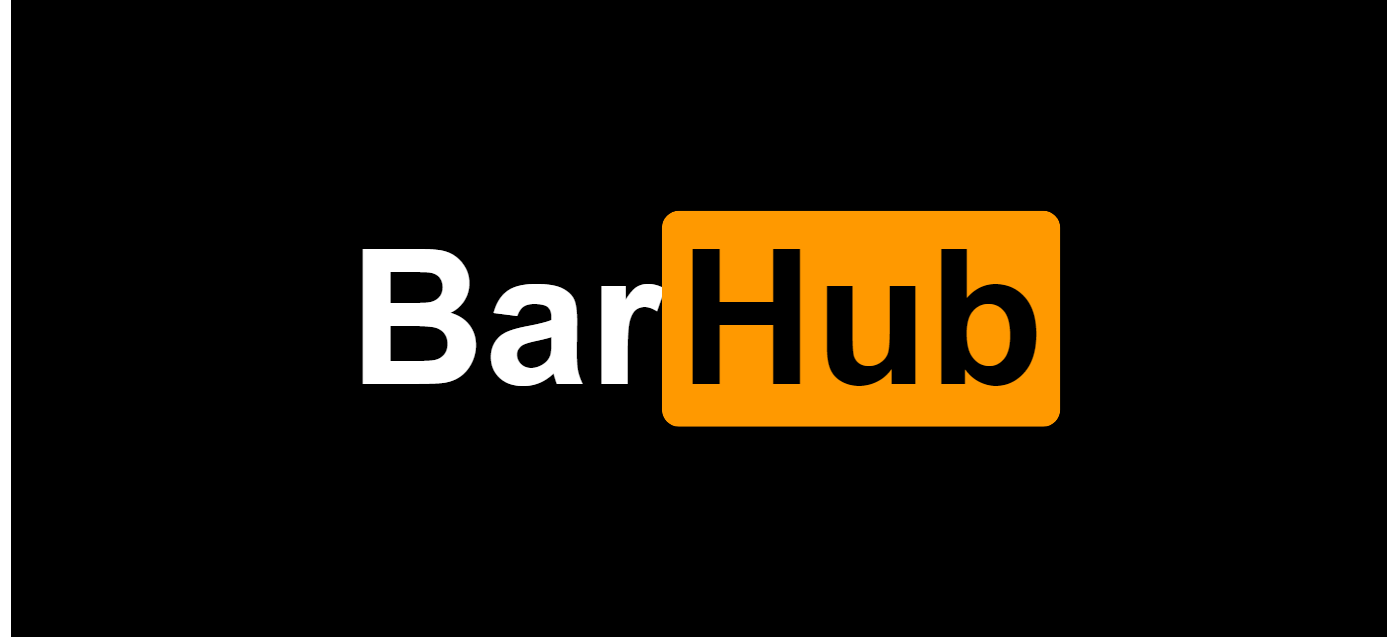
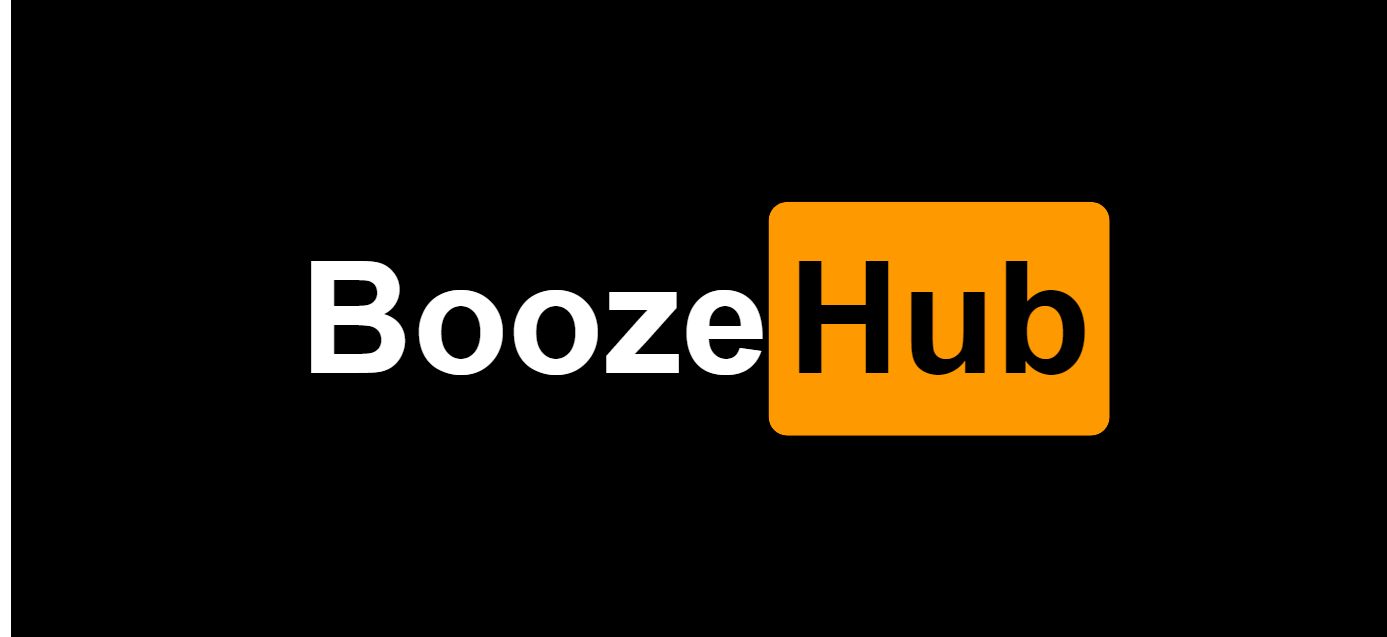
idk what I changed lol

Changed region(s): [[0.217, 0.2983, 0.8061, 0.686]]

diff --git a/index.html b/index.html
@@ -13,7 +13,7 @@
 
 <body>
     <div class="center-align">
-        <img src="assets/blacknwhite.png" class="center-align" alt="Bar Hub" height="40%" width="40%">
+        <img src="assets/boozehub.png" class="center-align" alt="Bar Hub" height="40%" width="40%">
     </div>
     <div class="container">
         <div class="row text-div">
@@ -28,11 +28,11 @@
             <div class="input-field col s2" id="categories">
                 <select multiple>
                     <option value="1">
-                        <i class="material-icons">local_bar</i>Bars</option>
+                        Bars</option>
                     <option value="2">
-                        <i class="material-icons">whatshot</i>Clubs</option>
+                        Clubs</option>
                     <option value="3">
-                        <i class="material-icons">local_drink</i>Breweries</option>
+                        Breweries</option>
                 </select>
                 <label>Categories</label>
             </div>
@@ -53,11 +53,12 @@
                             </div>
                             <div class="divider" tabindex="-1"></div>
                             <div class="switch" id="location-switch">
-                                <label>
-                                    <input type="checkbox">
-                                    <span class="lever"></span>
-                                    Use My Location
-                                </label>
+                                    <label>
+                                        <input type="checkbox">
+                                        <span class="lever"></span>
+                                    </label>
+                                    <label>Use My Location</label>
+                                
                                 <!-- If lever is off, append text entry field with id = zip code -->
                             </div>
                         </div>
@@ -66,13 +67,18 @@
             </div>
 
             <div class="col s2 move-right" id="food">
-                <div class="switch col s2 move-right" id="location-switch">
-                    <label>
+                <div class="row">
+                    <div class="switch col s2 move-right" id="location-switch">
+                        <label>
                         <input type="checkbox">
                         <span class="lever"></span>
-                        Include Food Results
-                    </label>
+                        </label>
+                    </div>
+                    <div class="col s2">
+                        <label>Include Food Results</label>
+                    </div>
                 </div>
+                
             </div>
 
         </div>
